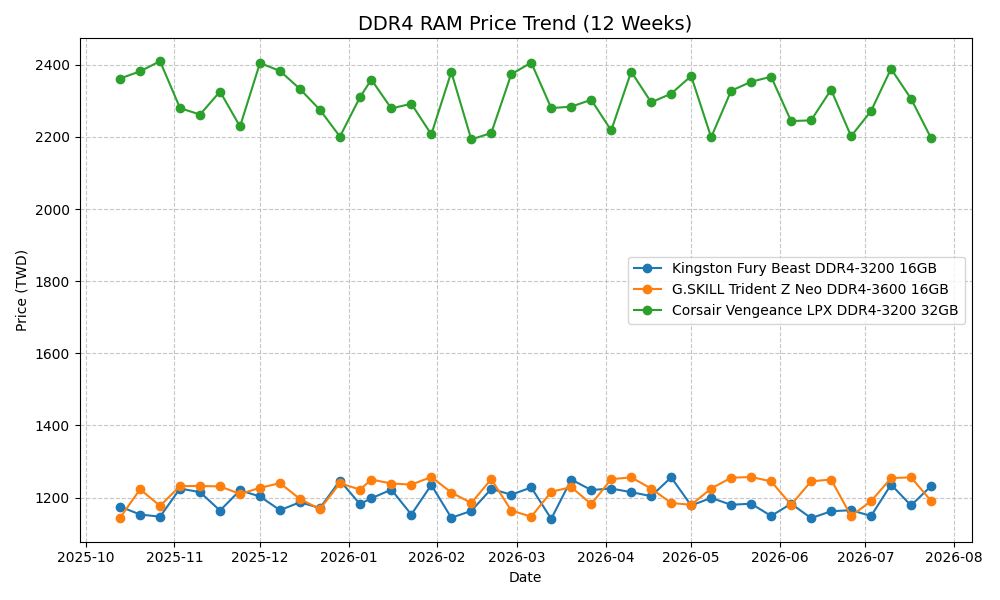
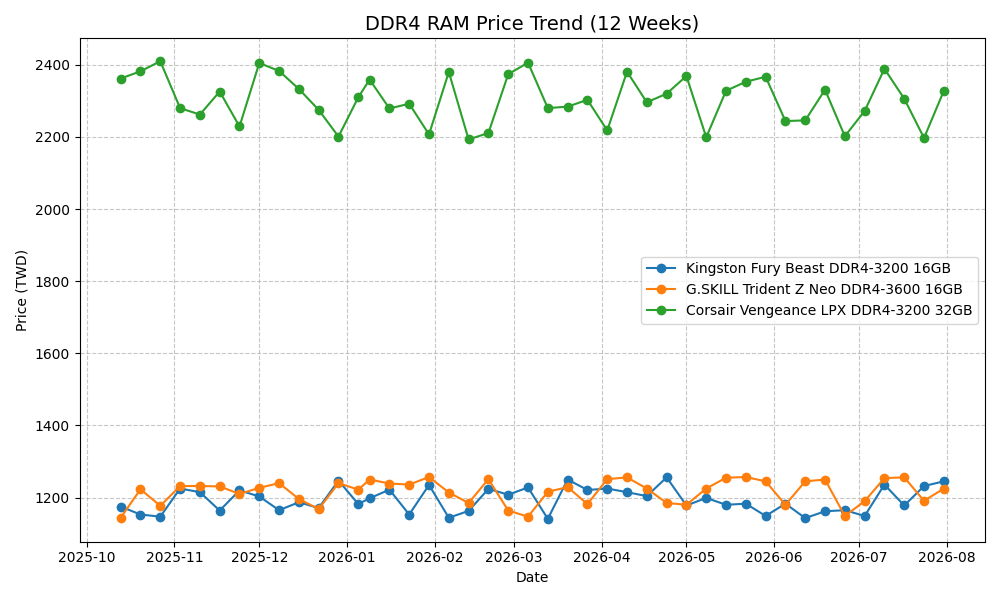
Auto-update: Weekly Price Report

diff --git a/weekly_report.md b/weekly_report.md
@@ -1,11 +1,11 @@
-# 🖥 DDR4 記憶體週報 (2026-07-24)
+# 🖥 DDR4 記憶體週報 (2026-07-31)
 
 ## 1. 價格變動摘要
 | 產品名稱 | 本週價格 | 上週價格 | 漲跌幅 (WoW) | 趨勢 |
 |---|---|---|---|---|
-| Kingston Fury Beast DDR4-3200 16GB | $1232 | $1178 | 4.58% | 🔴 漲 |
-| G.SKILL Trident Z Neo DDR4-3600 16GB | $1191 | $1256 | -5.18% | 🟢 跌 |
-| Corsair Vengeance LPX DDR4-3200 32GB | $2197 | $2306 | -4.73% | 🟢 跌 |
+| Kingston Fury Beast DDR4-3200 16GB | $1245 | $1232 | 1.06% | 🔴 漲 |
+| G.SKILL Trident Z Neo DDR4-3600 16GB | $1225 | $1191 | 2.85% | 🔴 漲 |
+| Corsair Vengeance LPX DDR4-3200 32GB | $2328 | $2197 | 5.96% | 🔴 漲 |
 
 ## 2. 分析建議
 - **短期趨勢**：請參考附檔趨勢圖。
